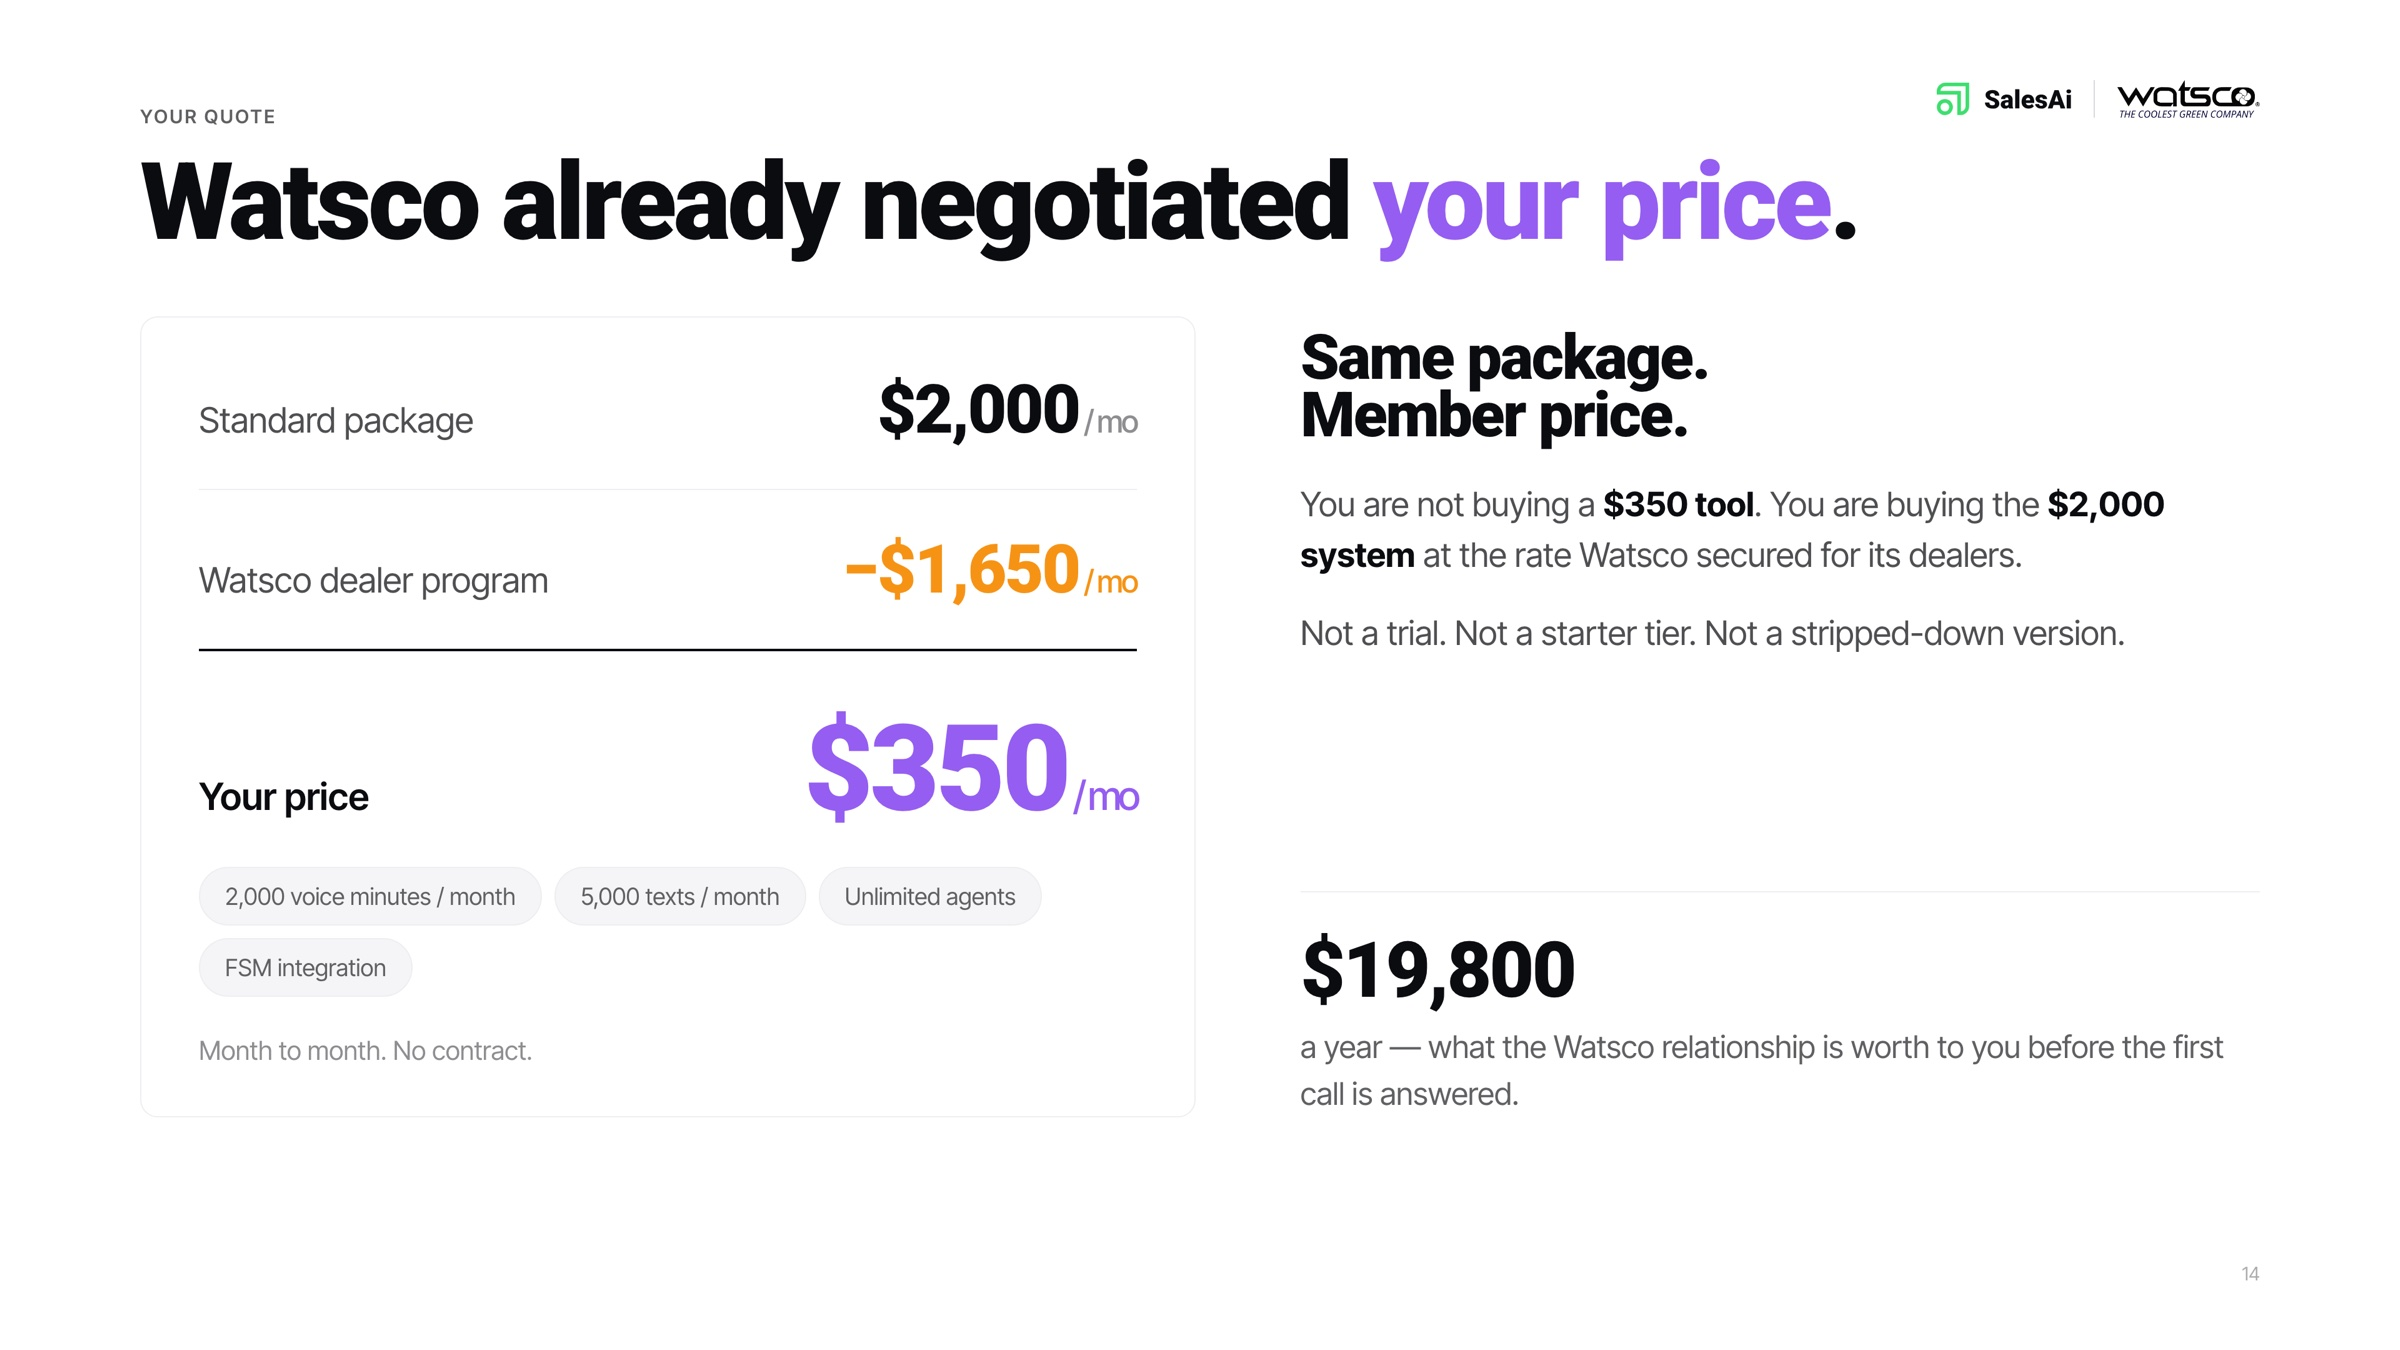
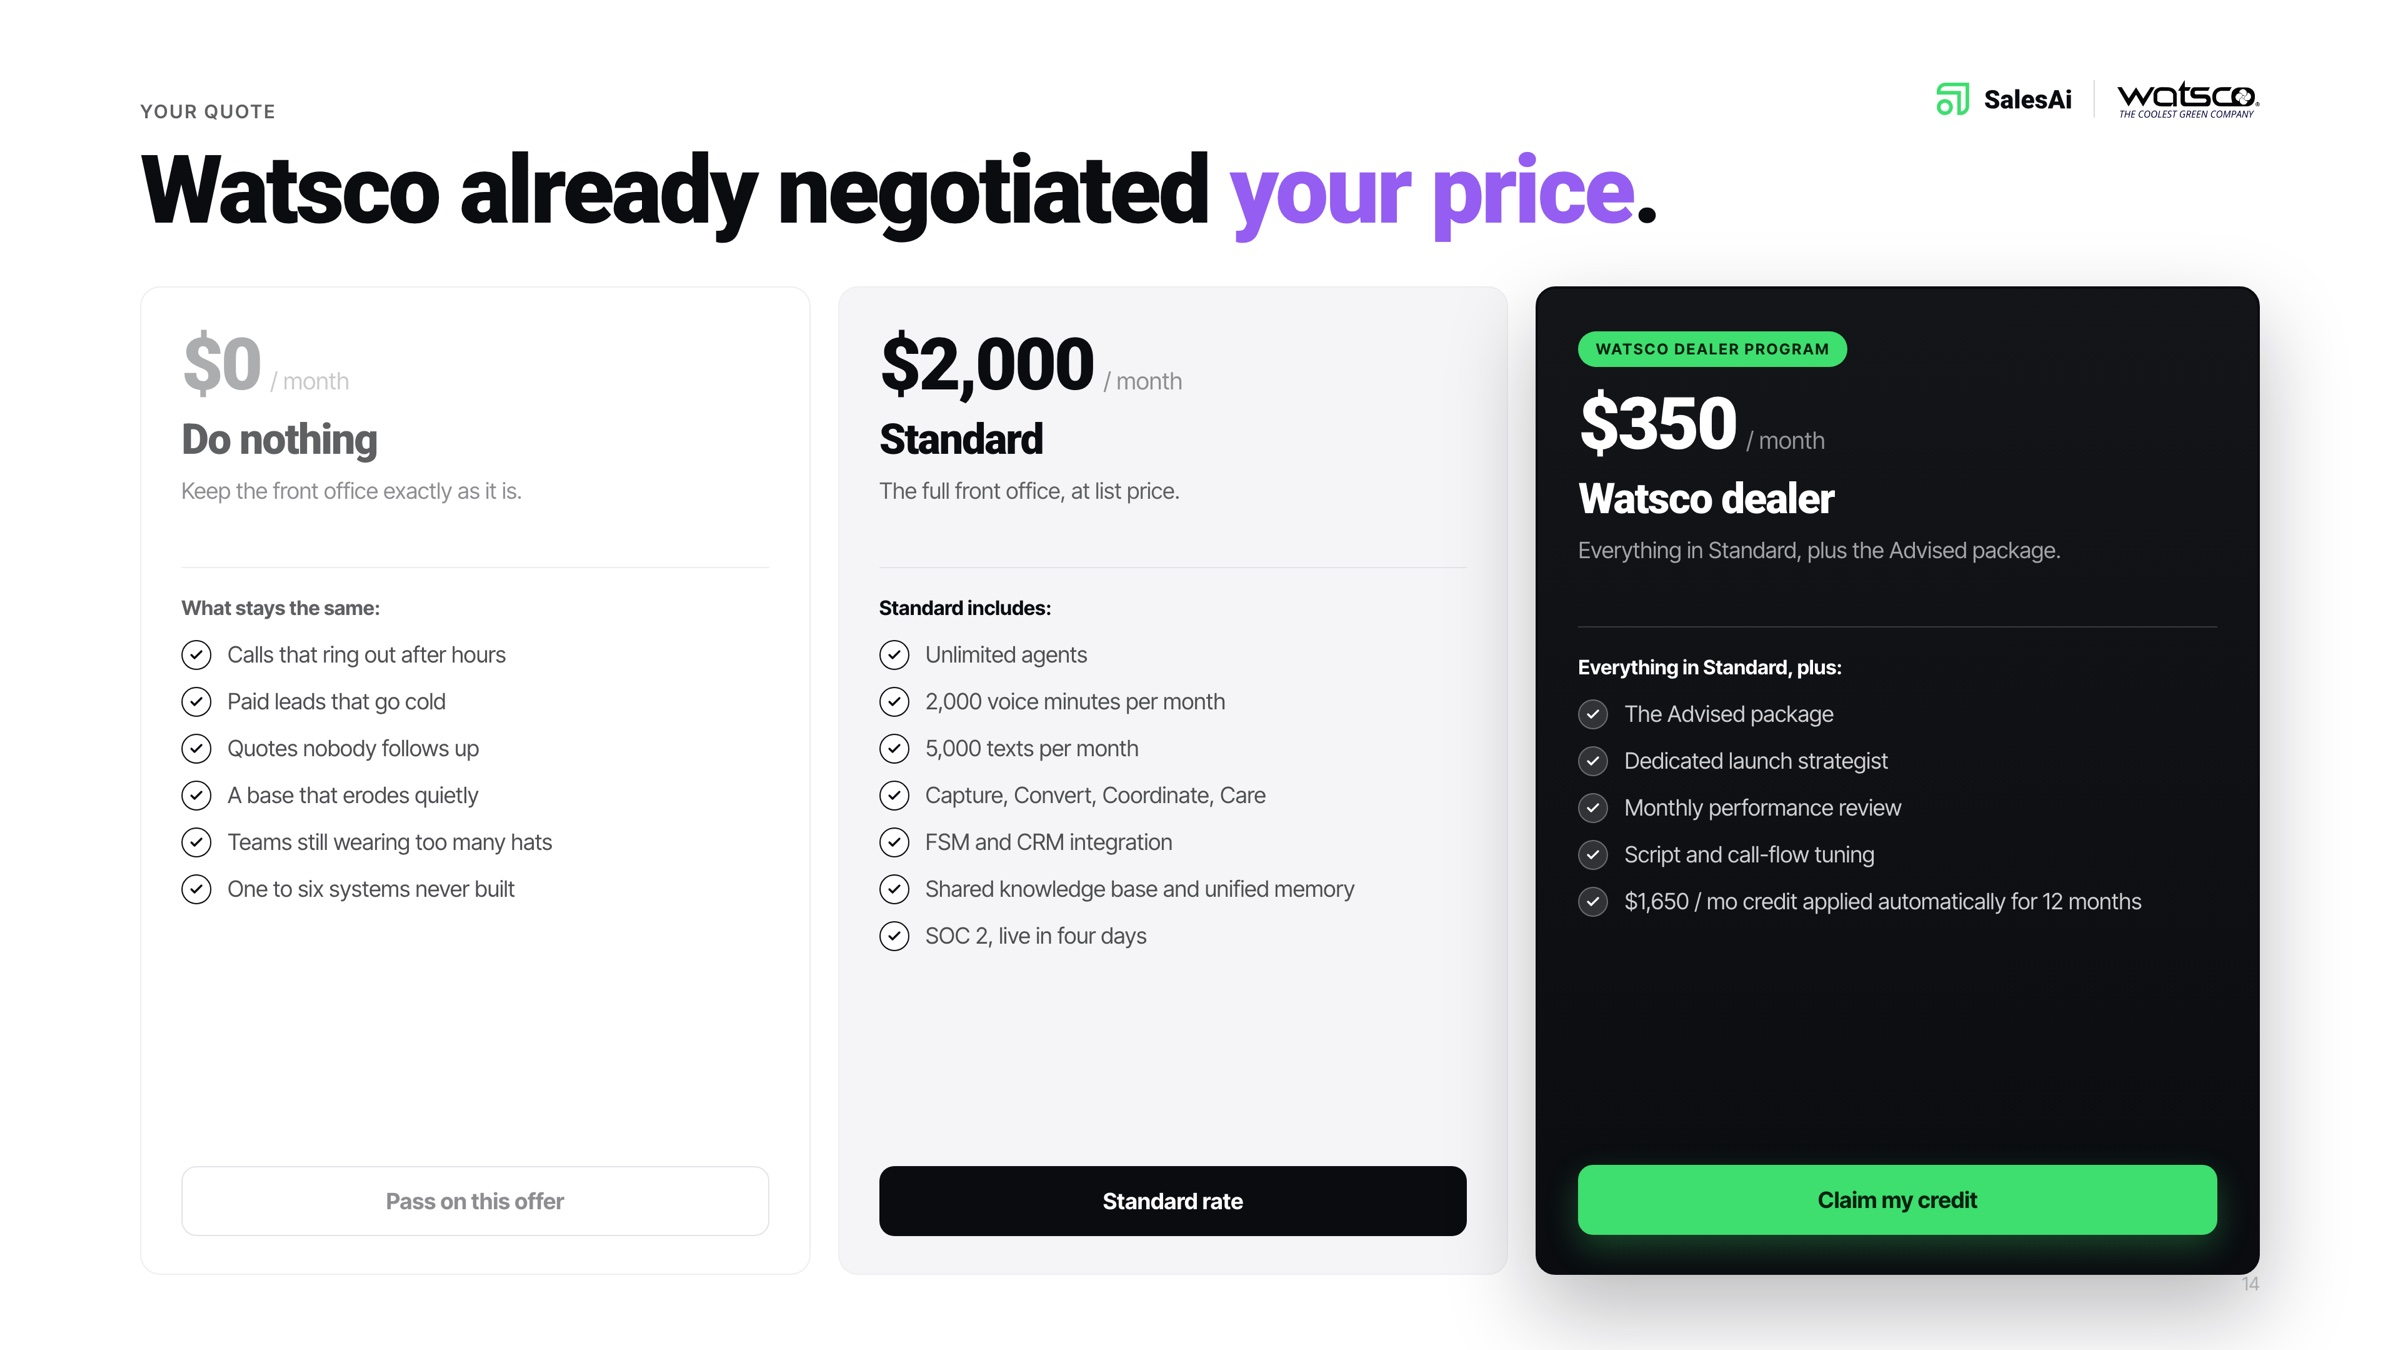
Quote slide: three-card pricing
Do nothing at $0 listing what stays the same, Standard at $2,000
detailed, Watsco dealer at $350 in the premium right-hand slot with
the 12-month credit term. Receipt version kept as _QuoteReceipt.

Claude-Session: https://claude.ai/code/session_01541ZQJSzd5g49QbE64sNeN

diff --git a/watsco-dealer-deck.html b/watsco-dealer-deck.html
@@ -101,7 +101,7 @@ nav{position:fixed;inset:0 0 auto 0;height:var(--nav);z-index:100;background:#00
 <section class="s" data-n="11"><img src="watsco-deck/11.jpg?v=0dd8a9b20b" width="2400" height="1350" alt="Slide 11 — What compounds" loading="lazy" decoding="async"></section>
 <section class="s" data-n="12"><img src="watsco-deck/12.jpg?v=e57f569dd8" width="2400" height="1350" alt="Slide 12 — Proof" loading="lazy" decoding="async"></section>
 <section class="s" data-n="13"><img src="watsco-deck/13.jpg?v=84be0091f0" width="2400" height="1350" alt="Slide 13 — Enterprise-grade security" loading="lazy" decoding="async"></section>
-<section class="s" data-n="14"><img src="watsco-deck/14.jpg?v=cecd297e04" width="2400" height="1350" alt="Slide 14 — Your quote" loading="lazy" decoding="async"></section>
+<section class="s" data-n="14"><img src="watsco-deck/14.jpg?v=c550f18af2" width="2400" height="1350" alt="Slide 14 — Your quote" loading="lazy" decoding="async"></section>
 <section class="s" data-n="15"><img src="watsco-deck/15.jpg?v=428baae9e3" width="2400" height="1350" alt="Slide 15 — Claim your dealer credit" loading="lazy" decoding="async"></section>
 <div class="count" id="c">01 / 15</div>
 <script>
